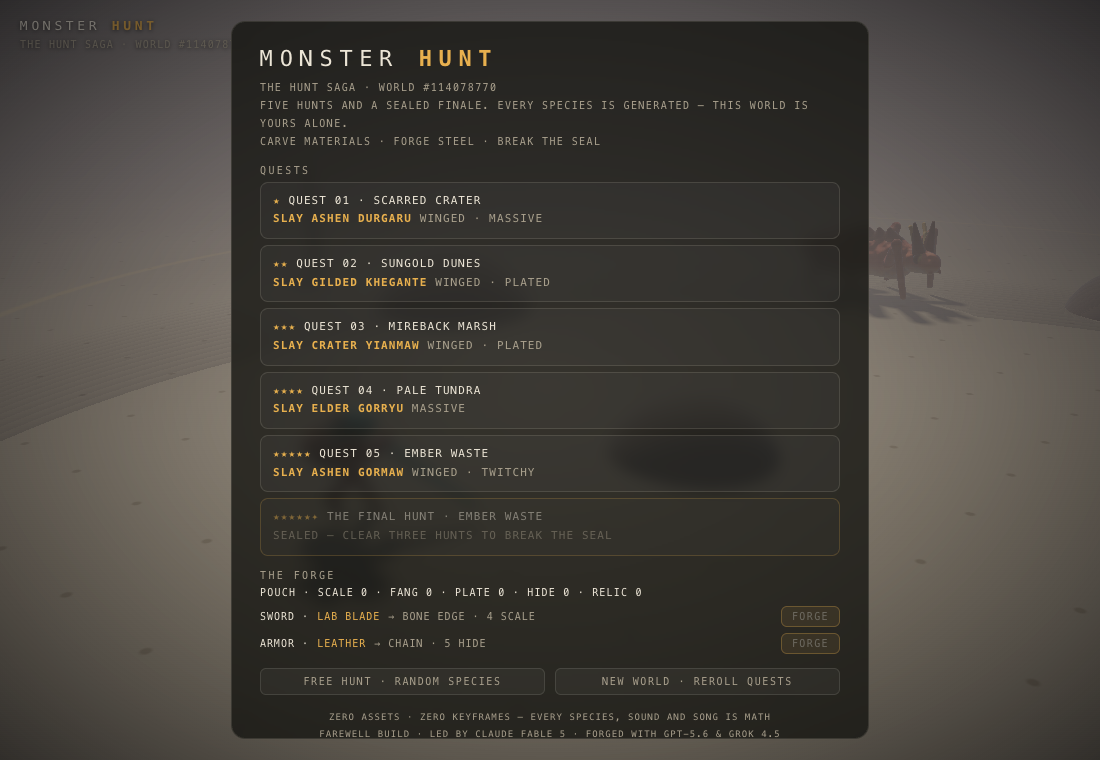
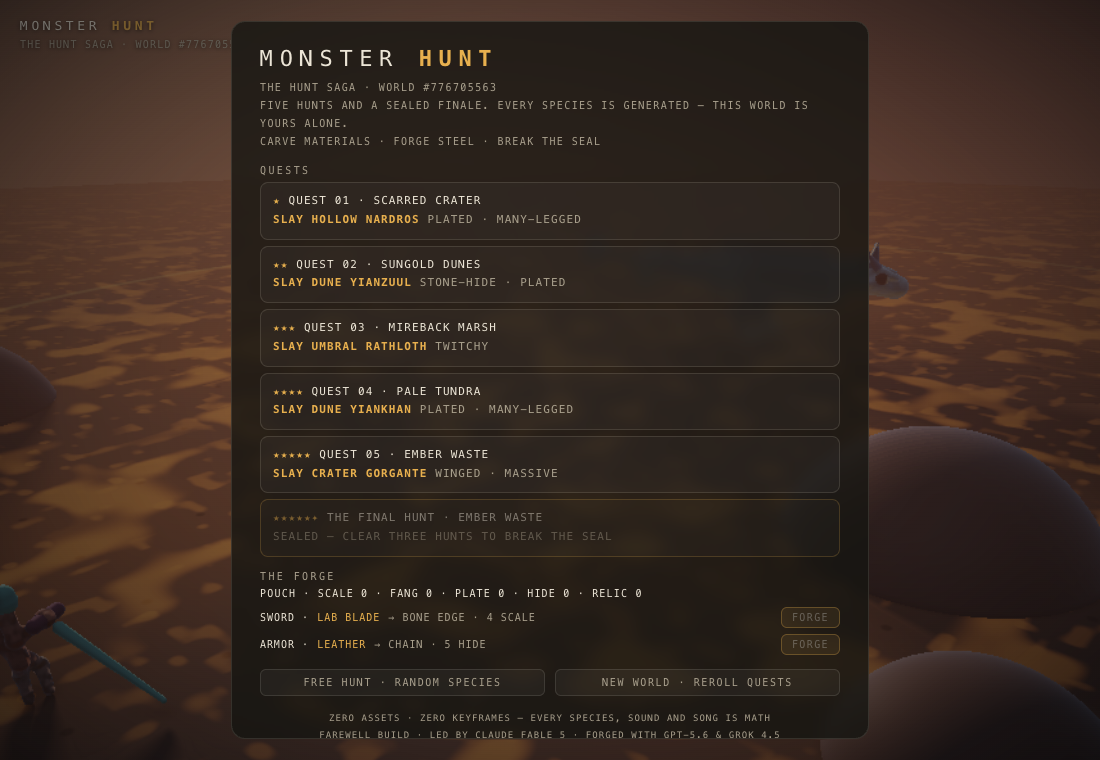
docs: final board hero shot, touch/gamepad controls documented

diff --git a/README.md b/README.md
@@ -54,7 +54,11 @@ The quest banner briefs the tells.
 - **WASD** move · **click / J** attack — 3-hit sword combo · **shift** dash
   (i-frames) · **space** jump · **Q** potion ×3 · **Tab** lock-on · **E** carve ·
   **M** mute · **P** pixel mode (or `?pixel=1`) — 180p retro render, posterized + dithered ·
-  3 faints = quest failed
+  **R / B** after the verdict — retry / back to the board · 3 faints = quest failed
+- **Touch & gamepad**: left-half touches raise a floating stick, right half
+  stays orbit/tap-attack, with a glass DASH·JUMP·POTION·CARVE cluster; on a
+  pad the sticks move/orbit, **A** attack · **B** dash · **X** jump ·
+  **Y** hold-potion · **RB** carve · **LB** lock-on
 - **You hunt as a hunter** — an armored capsule-knight (helmet, pauldrons, no
   face) built from the same limb class as the monsters: slash · backhand ·
   overhead heavy, the swings driven by arm IK, the blade swept as a 5-point